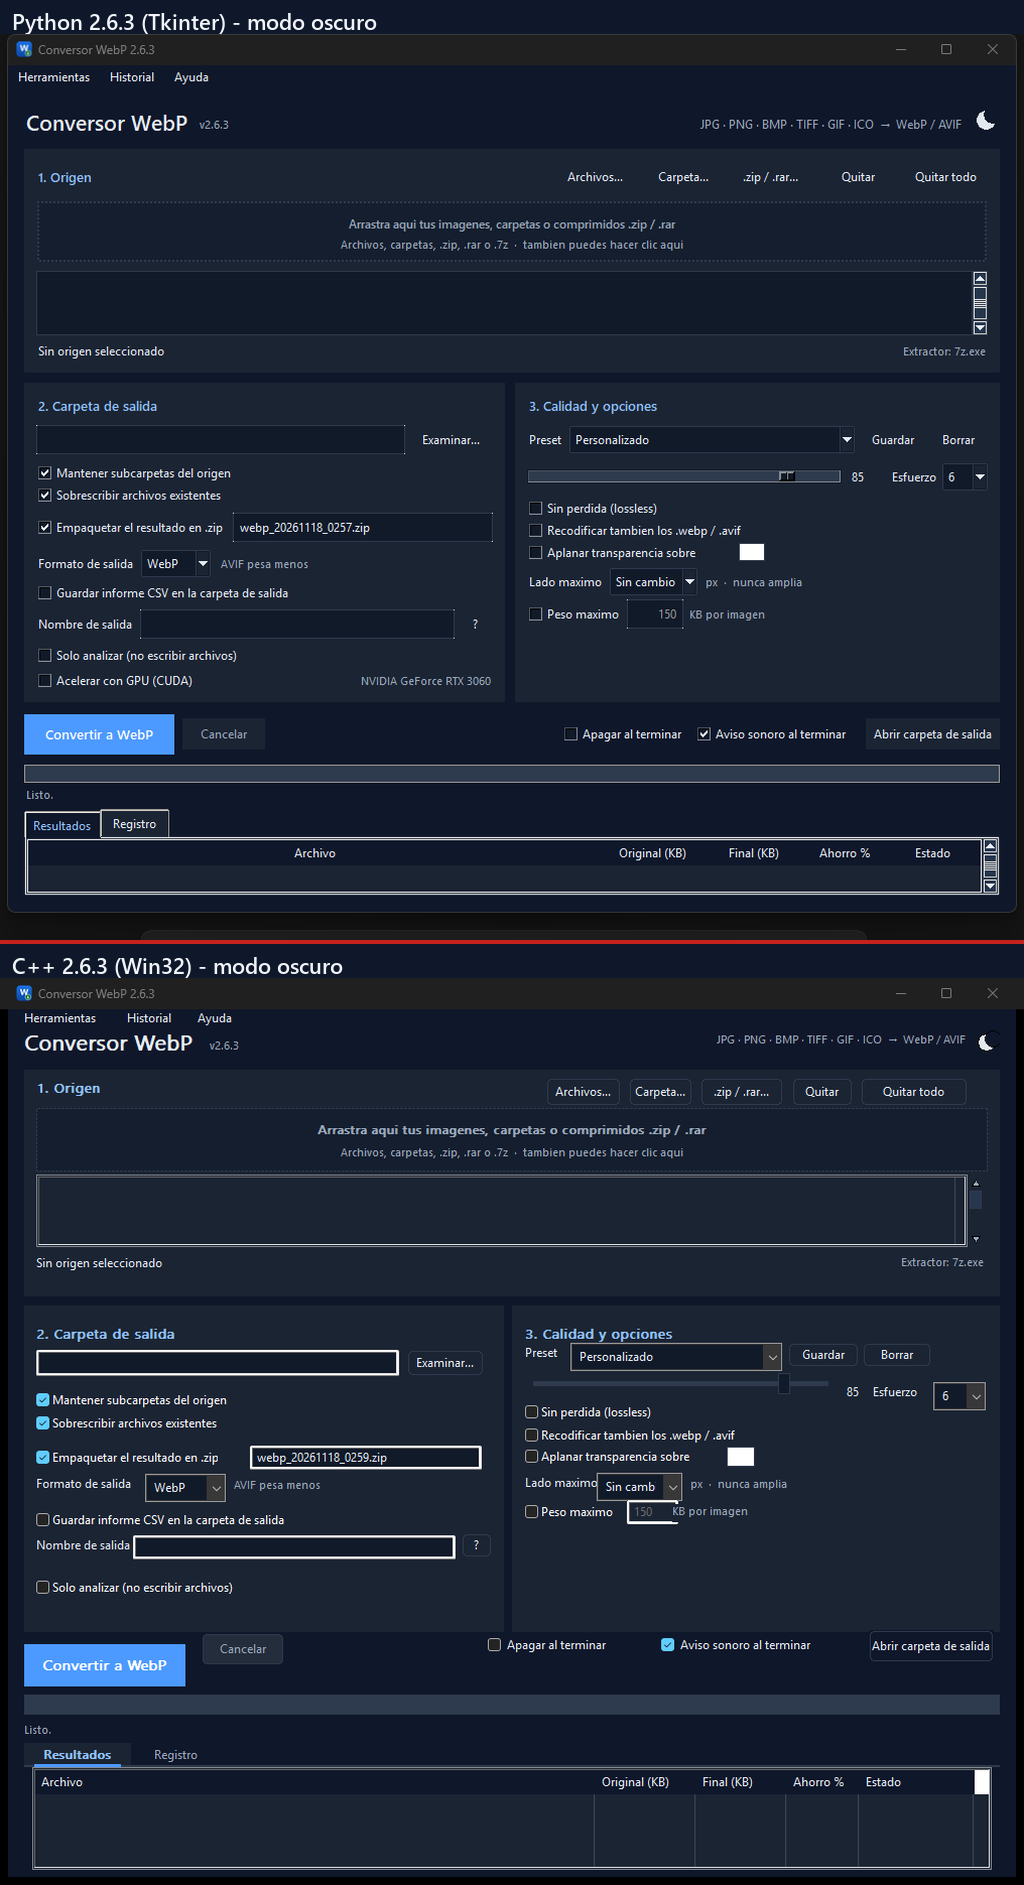
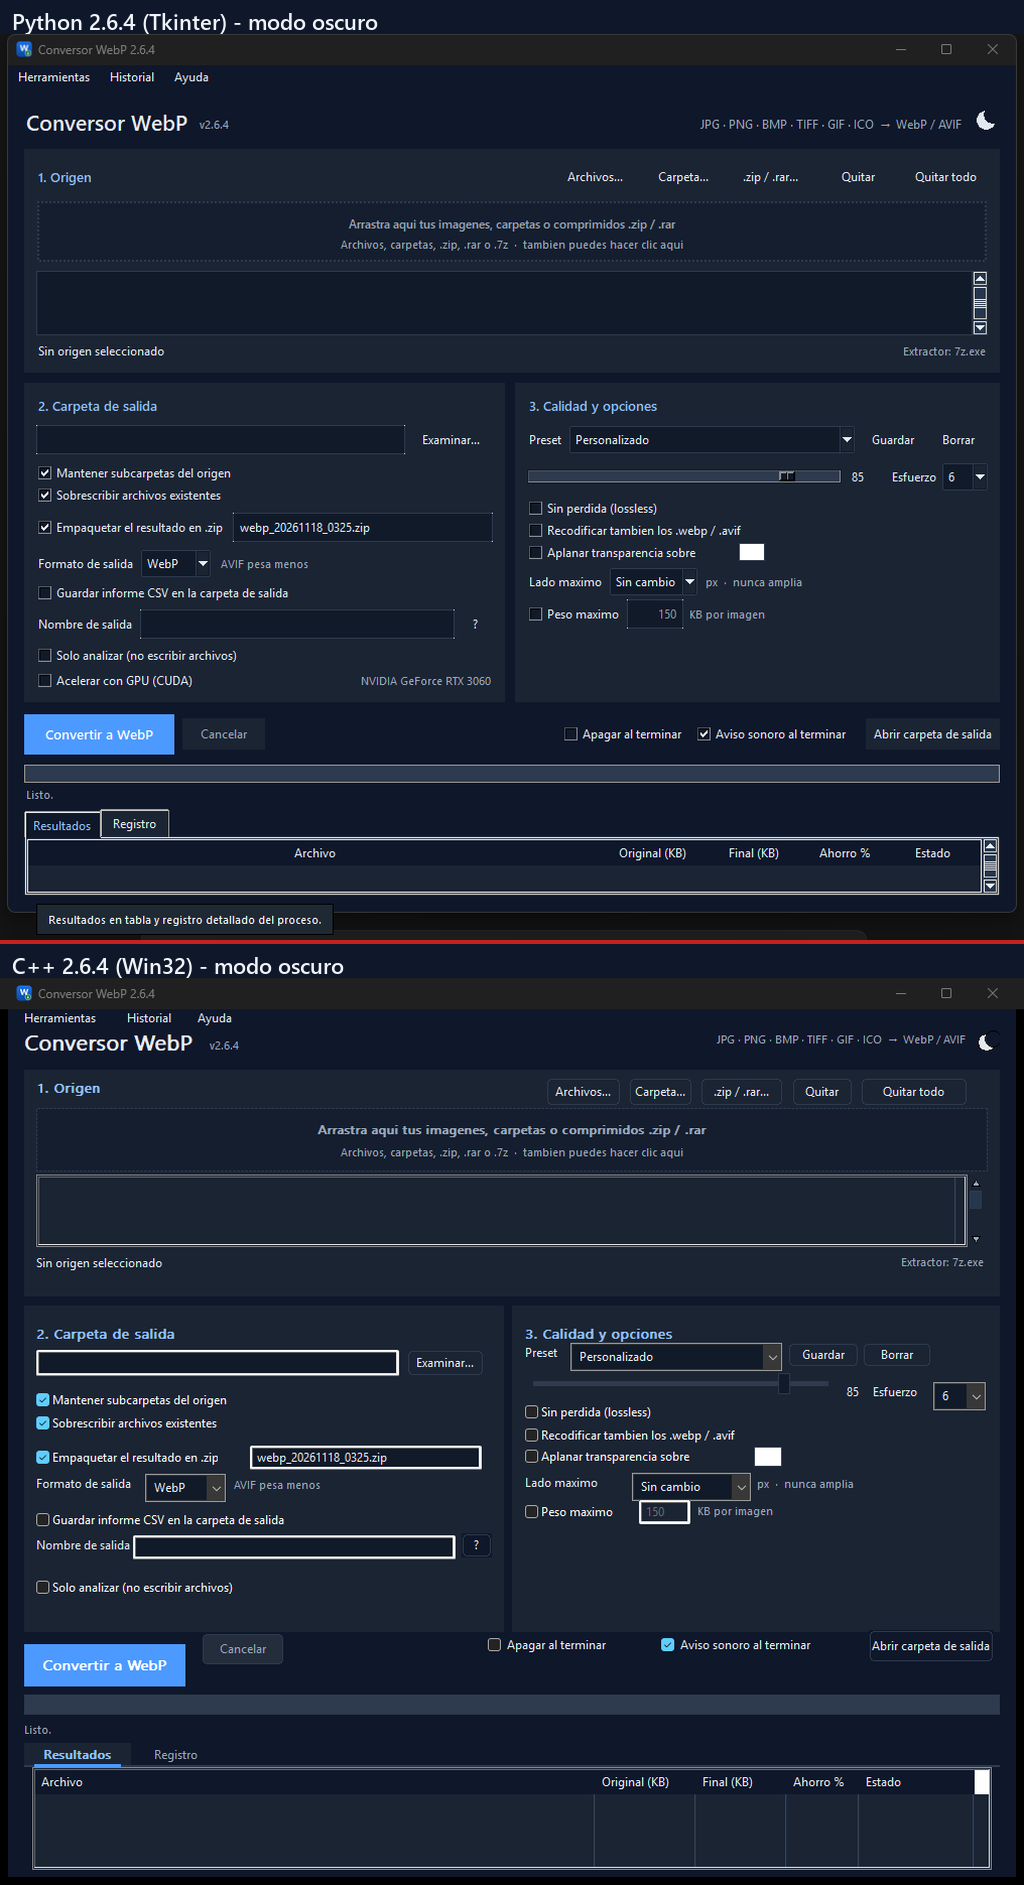
Version 2.6.4: corrige el solape de Lado maximo en C++

Changed region(s): [[0.0312, 0.4615, 0.3438, 0.5231], [0.5938, 0.7692, 0.7812, 0.8308], [0.125, 0.0, 0.2188, 0.0308]]

diff --git a/cpp/src/main.cpp b/cpp/src/main.cpp
@@ -76,7 +76,7 @@ using Microsoft::WRL::ComPtr;
 namespace fs = std::filesystem;
 
 static const wchar_t* APP_NAME = L"Conversor WebP";
-static const wchar_t* APP_VERSION = L"2.6.3";
+static const wchar_t* APP_VERSION = L"2.6.4";
 
 // ---------------------------------------------------------------------------
 //  Utilidades generales
@@ -1226,7 +1226,7 @@ struct Options {
     bool beep = true;
     bool csv = false;
     std::wstring salida;
-    std::wstring zip_nombre = L"imagenes_2.6.3-cpp.zip";
+    std::wstring zip_nombre = L"imagenes_2.6.4-cpp.zip";
     std::wstring patron;
     std::wstring formato = L"WEBP";
     bool dry_run = false;
@@ -4712,14 +4712,14 @@ static void reubicar_controles(int cw, int ch) {
     mover(g_combo_metodo, cardR - 66, 370, 52, 200);
     mover(g_check_lossless, cardL + 13, 390, 300, 20);
     mover(g_check_reencode, cardL + 13, 413, 300, 20);
-    mover(g_check_flatten, cardL + 13, 434, 190, 20);
-    mover(g_btn_color, cardL + 213, 434, 28, 20);
-    mover(ctl(1203), cardL + 13, 462, 80, 20);
-    mover(g_combo_dim, cardL + 84, 460, 85, 200);
-    mover(ctl(1204), cardL + 177, 464, 160, 18);
-    mover(ctl(ID_TARGET), cardL + 13, 489, 100, 20);
-    mover(g_edit_objetivo, cardL + 114, 487, 51, 24);
-    mover(ctl(1205), cardL + 159, 491, 120, 18);
+    mover(g_check_flatten, cardL + 13, 434, 220, 20);
+    mover(g_btn_color, cardL + 240, 434, 28, 20);
+    mover(ctl(1203), cardL + 13, 462, 100, 20);
+    mover(g_combo_dim, cardL + 119, 460, 118, 200);
+    mover(ctl(1204), cardL + 243, 464, 160, 18);
+    mover(ctl(ID_TARGET), cardL + 13, 489, 110, 20);
+    mover(g_edit_objetivo, cardL + 126, 487, 51, 24);
+    mover(ctl(1205), cardL + 184, 491, 120, 18);
 
     // Acciones
     int openX = cw - 146;
@@ -5240,7 +5240,7 @@ static LRESULT CALLBACK WndProc(HWND hwnd, UINT msg, WPARAM wp, LPARAM lp) {
 
             // Cabecera
             etiqueta(L"Conversor WebP", 16, 17, 300, 30, 1400, g_font_title);
-            etiqueta(L"v2.6.3", 200, 29, 120, 18, 1401, g_font_muted);
+            etiqueta(L"v2.6.4", 200, 29, 120, 18, 1401, g_font_muted);
             etiqueta(L"JPG · PNG · BMP · TIFF · GIF · ICO  →  WebP / AVIF", 560, 23, 390, 20,
                      1402, g_font_muted, SS_RIGHT);
             boton(L"", 958, 20, 26, 26, ID_TEMA, BS_OWNERDRAW);
@@ -5328,21 +5328,21 @@ static LRESULT CALLBACK WndProc(HWND hwnd, UINT msg, WPARAM wp, LPARAM lp) {
                                      ID_LOSSLESS, g_opt.sin_perdida);
             g_check_reencode = check(L"Recodificar tambien los .webp / .avif", 513, 413, 300, 20,
                                      ID_REENCODE, g_opt.reencode);
-            g_check_flatten = check(L"Aplanar transparencia sobre", 513, 434, 190, 20,
+            g_check_flatten = check(L"Aplanar transparencia sobre", 513, 434, 220, 20,
                                     ID_FLATTEN, g_opt.flatten);
-            g_btn_color = boton(L"", 726, 434, 28, 20, ID_COLOR, BS_OWNERDRAW);
-            etiqueta(L"Lado maximo", 513, 462, 80, 20, 1203);
-            g_combo_dim = combo(597, 460, 85, 200, ID_DIM);
+            g_btn_color = boton(L"", 740, 434, 28, 20, ID_COLOR, BS_OWNERDRAW);
+            etiqueta(L"Lado maximo", 513, 462, 100, 20, 1203);
+            g_combo_dim = combo(619, 460, 118, 200, ID_DIM);
             for (auto t : {L"Sin cambio", L"2560", L"1920", L"1600", L"1200", L"800", L"512"})
                 SendMessageW(g_combo_dim, CB_ADDSTRING, 0, (LPARAM)t);
             SendMessageW(g_combo_dim, CB_SETCURSEL, 0, 0);
-            etiqueta(L"px  ·  nunca amplia", 690, 464, 160, 18, 1204, g_font_muted);
-            check(L"Peso maximo", 513, 489, 100, 20, ID_TARGET, g_opt.objetivo_kb > 0);
-            g_edit_objetivo = edit(614, 487, 51, 24, ID_TARGET_EDIT);
+            etiqueta(L"px  ·  nunca amplia", 743, 464, 160, 18, 1204, g_font_muted);
+            check(L"Peso maximo", 513, 489, 110, 20, ID_TARGET, g_opt.objetivo_kb > 0);
+            g_edit_objetivo = edit(626, 487, 51, 24, ID_TARGET_EDIT);
             wchar_t kb[16];
             swprintf_s(kb, L"%d", g_opt.objetivo_kb > 0 ? g_opt.objetivo_kb : 150);
             SetWindowTextW(g_edit_objetivo, kb);
-            etiqueta(L"KB por imagen", 672, 491, 120, 18, 1205, g_font_muted);
+            etiqueta(L"KB por imagen", 684, 491, 120, 18, 1205, g_font_muted);
 
             // Acciones
             g_btn_convertir = boton(L"Convertir a WebP", 16, 630, 160, 42, ID_START, BS_OWNERDRAW);
@@ -6443,7 +6443,7 @@ int wmain(int argc, wchar_t** argv) {
     wc.hIconSm = icono_pequeno;
     RegisterClassExW(&wc);
 
-    g_hwnd = CreateWindowExW(0, wc.lpszClassName, L"Conversor WebP 2.6.3",
+    g_hwnd = CreateWindowExW(0, wc.lpszClassName, L"Conversor WebP 2.6.4",
                              WS_OVERLAPPEDWINDOW,
                              CW_USEDEFAULT, CW_USEDEFAULT, 1016, 900, nullptr, nullptr, inst, nullptr);
     if (!g_hwnd) return 1;

diff --git a/conversor_webp.py b/conversor_webp.py
@@ -77,7 +77,7 @@ except Exception:  # pragma: no cover - la app sigue funcionando sin arrastrar
 
 
 APP_NAME = "Conversor WebP"
-APP_VERSION = "2.6.3"
+APP_VERSION = "2.6.4"
 
 try:  # soporte HEIC/HEIF (iPhone) si pillow-heif esta instalado
     import pillow_heif

diff --git a/README.md b/README.md
@@ -10,7 +10,7 @@
 </p>
 
 <p align="center">
-  <img alt="Versión" src="https://img.shields.io/badge/version-2.6.3-1a73e8">
+  <img alt="Versión" src="https://img.shields.io/badge/version-2.6.4-1a73e8">
   <img alt="Windows" src="https://img.shields.io/badge/Windows-10%20%7C%2011-0078D6">
   <img alt="Python" src="https://img.shields.io/badge/Python-3.12-3776AB">
   <img alt="Pillow" src="https://img.shields.io/badge/Pillow-13-11557C">
@@ -608,6 +608,7 @@ ConversorWebP/
 
 Consulta [CHANGELOG.md](CHANGELOG.md). Resumen:
 
+- **2.6.4** — corrige el solape del selector «Lado máximo» en la edición C++.
 - **2.6.3** — modo oscuro conmutable en las dos ediciones, con icono sol/luna y preferencia guardada.
 - **2.6.2** — actualización automática desde la app: descarga verificada, instalación y reinicio.
 - **2.6.1** — edición C++ con paridad funcional, icono de aplicación, selector de color visible y correcciones.

diff --git a/CHANGELOG.md b/CHANGELOG.md
@@ -6,6 +6,15 @@ Todos los cambios relevantes del proyecto. Formato basado en
 
 ---
 
+## [2.6.4] — 2026-11-18
+
+### Corregido
+
+- En la edición C++, la etiqueta **Lado máximo** se solapaba con su desplegable y el texto
+  «Sin cambio» aparecía recortado. Ahora la fila tiene más espacio y se lee completa.
+
+---
+
 ## [2.6.3] — 2026-11-18
 
 ### Añadido
@@ -249,6 +258,7 @@ Todos los cambios relevantes del proyecto. Formato basado en
 - Conservación de transparencia, perfil ICC y orientación EXIF.
 - Modo consola básico.
 
+[2.6.4]: #264--2026-11-18
 [2.6.3]: #263--2026-11-18
 [2.6.2]: #262--2026-11-18
 [2.6.1]: #261--2026-11-18
